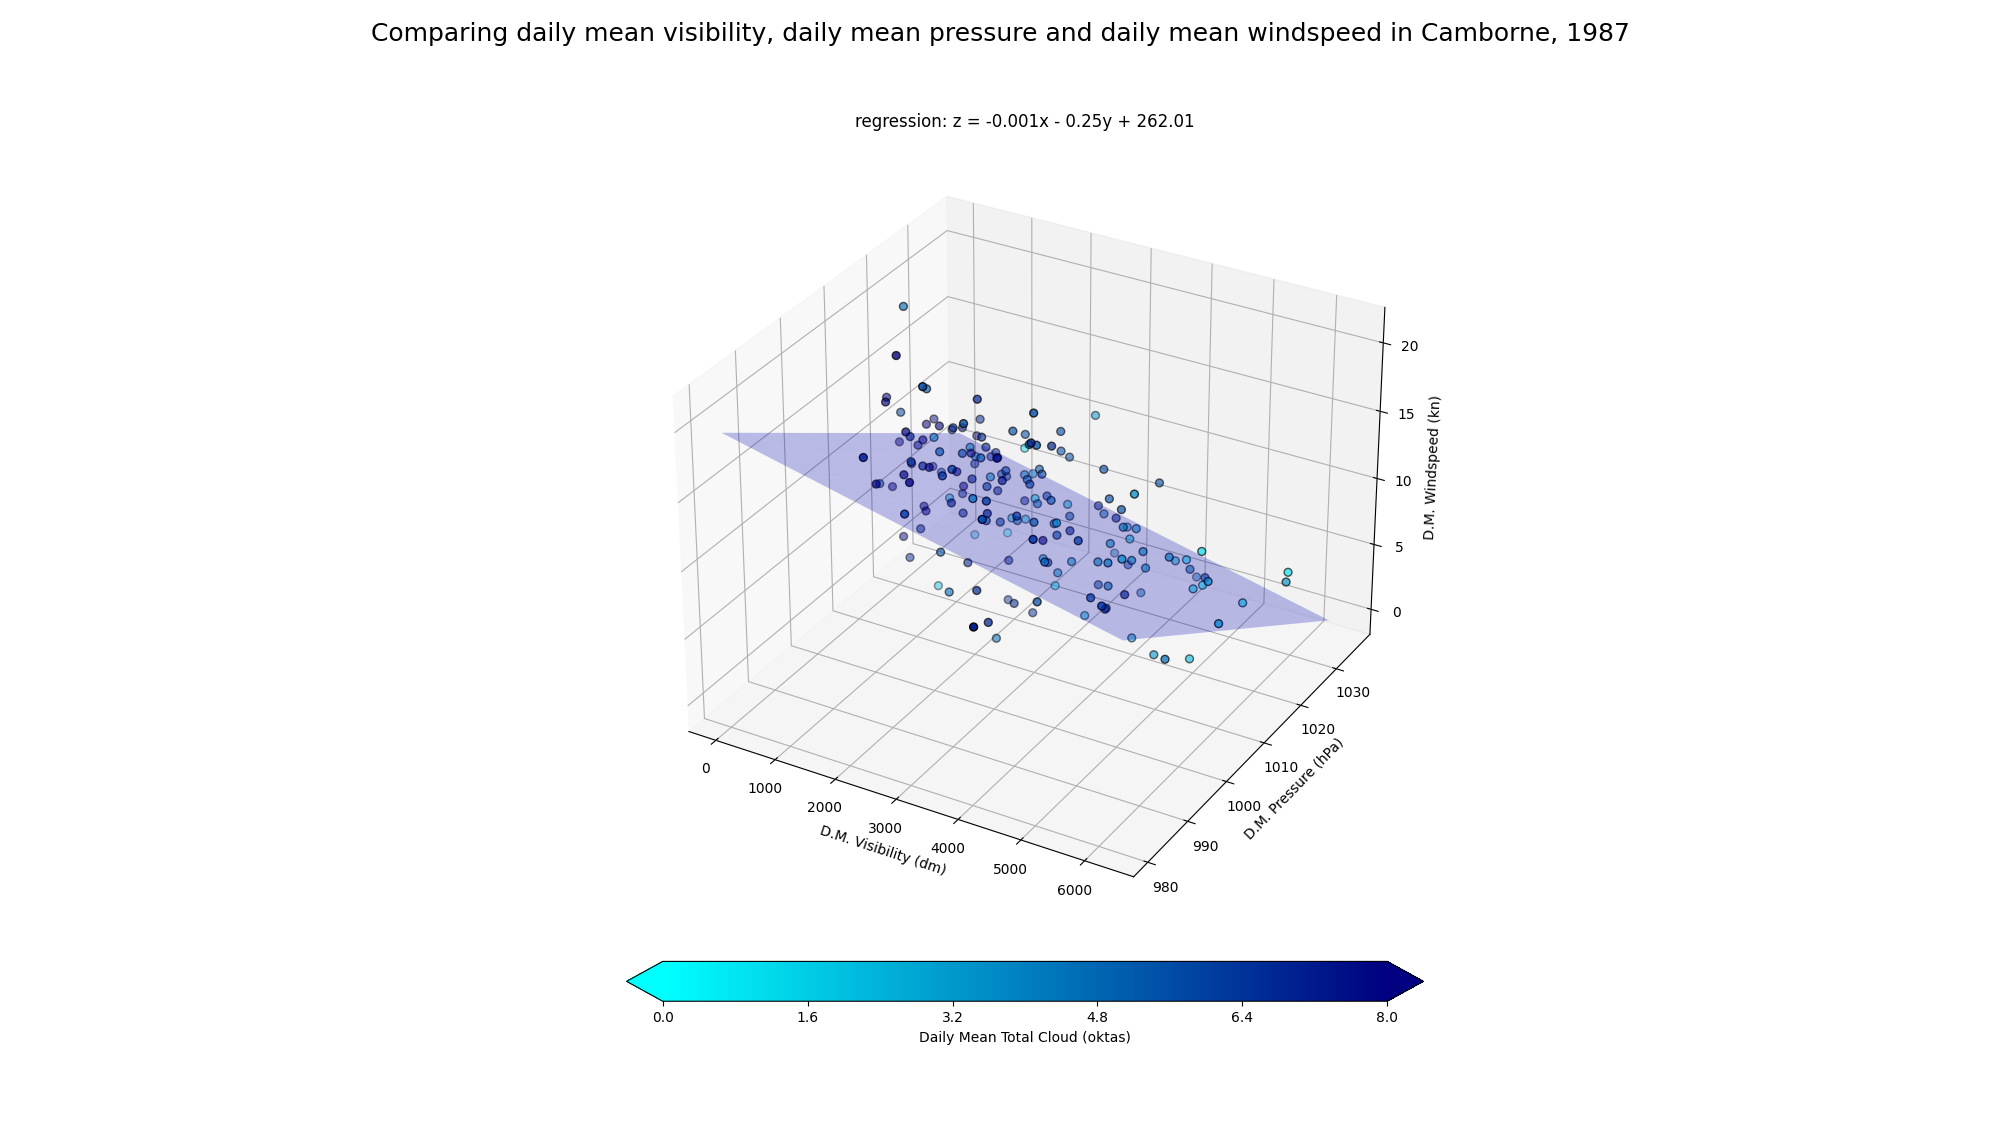
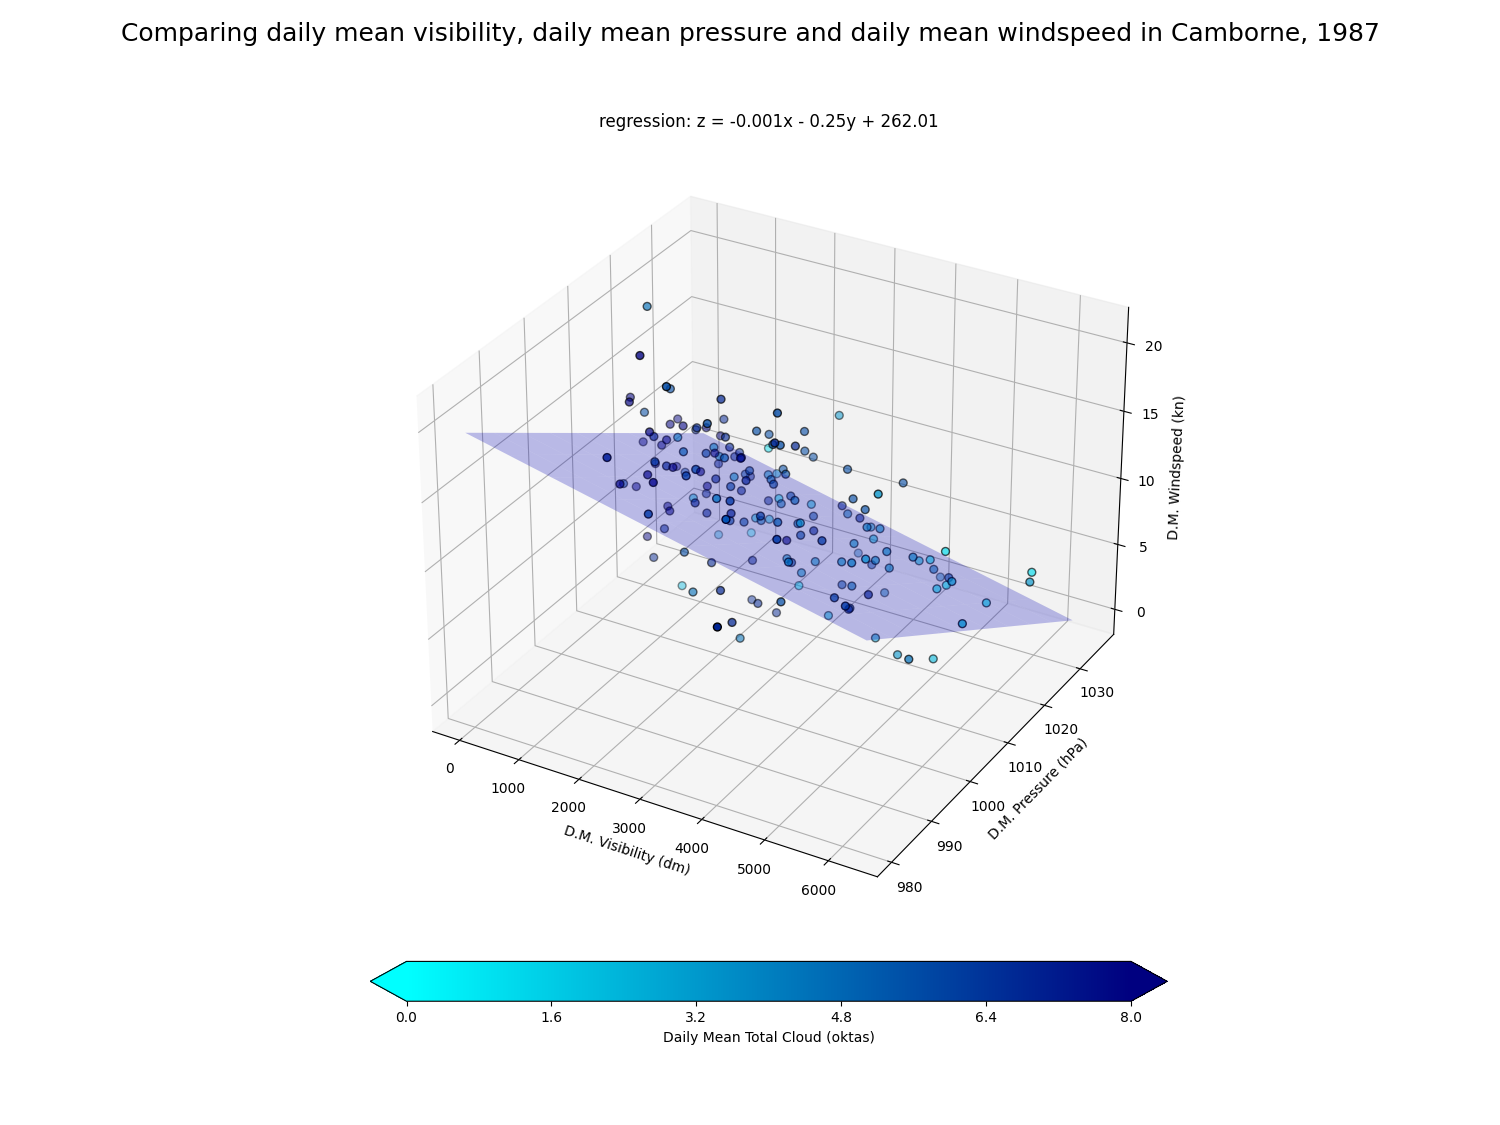
Added a version of meantempsuk where it only plots one graph so it's easier to focus on one

diff --git a/meantempsuk_onlyone.py b/meantempsuk_onlyone.py
@@ -14,12 +14,19 @@ redbluecmap = plt.get_cmap("seismic")
 # Size of one pixel in inches
 px = 1/96
 
+time = 2015
+
+# Kill units from column names so it's easier to address
+def trim_units(string):
+    bad = string.index("(") if "(" in string else len(string)+1
+    return string[0:bad-1]
+
 # Names of the 5 weather stations in a cherrypicked order so that our plots look more smooth
 stations = ["Leuchars" , "Leeming" , "Camborne" , "Hurn" , "Heathrow"]
 
-fig, (ax1,ax2,ax3) = plt.subplots(ncols=3,
+fig, ax = plt.subplots(ncols=1,
                                   nrows=1 , 
-                                  figsize=(1920*px, 1080*px), 
+                                  figsize=(1440*px, 1080*px), 
                                   subplot_kw={"projection" : "3d"})
 
 # This function gets the data and modifies it into monthly data, also makes some qol changes to the data
@@ -131,18 +138,16 @@ def plotit(time,ax, is_normal):
     ax.set_yticklabels(["placeholder", "May","June","July","Aug.","Sept.","Oct."])
     ax.set_xticklabels(["placeholder"] +  stations)
 
-    # ax2 is in the middle so I thought that's the best place to put the colourbar
-    if ax == ax2:
-        # Since the data was colour-normalised I need to set the sunshine ticks manually or it'll just go from 0-1 
-        # Round to stop stupid floating point errors
-        required_ticklabels = np.round( np.linspace(totalmonthlysunshine.min(), totalmonthlysunshine.max() , 6),
-                                       decimals=2)
-        bar = plt.colorbar(mappable=the_bars, 
-                           extend="both", 
-                           label = "Mean daily total sunshine (hrs)", 
-                           orientation="horizontal",
-                           fraction=0.046, pad=0.04) # Magic numbers, make the colourbar fit proportionally - got them from stackoverflow
-        bar.set_ticklabels(required_ticklabels)
+    # Since the data was colour-normalised I need to set the sunshine ticks manually or it'll just go from 0-1 
+    # Round to stop stupid floating point errors
+    required_ticklabels = np.round( np.linspace(totalmonthlysunshine.min(), totalmonthlysunshine.max() , 6),
+                                    decimals=2)
+    bar = plt.colorbar(mappable=the_bars, 
+                        extend="both", 
+                        label = "Mean daily total sunshine (hrs)", 
+                        orientation="horizontal",
+                        fraction=0.046, pad=0.04) # Magic numbers, make the colourbar fit proportionally - got them from stackoverflow
+    bar.set_ticklabels(required_ticklabels)
 
 
     ax.set_xlabel("Location")
@@ -168,16 +173,13 @@ def z_tick_formatter(x, pos):
         return f'{x:.1f}'
 
 z_formatter = FuncFormatter(z_tick_formatter)
-ax3.zaxis.set_major_formatter(z_formatter)
+ax.zaxis.set_major_formatter(z_formatter)
 
-# The third one is the temperature change graph
-plotit(1987,ax1,is_normal = True)
-plotit(2015,ax2,is_normal =True)
-plotit(2015,ax3, is_normal =False)
+plotit(time,ax,is_normal =True)
 
-plt.suptitle("Comparing mean temperatures across the UK in 1987 with 2015", fontsize=18)
+plt.suptitle(f"Comparing mean temperatures across the UK in {time}", fontsize=18)
 
-plt.savefig("weatherdiagram.png")
+plt.savefig("weatherdiagram_ONLY.png")
 
 plt.show()
 

diff --git a/windycorrelationsuk.py b/windycorrelationsuk.py
@@ -17,7 +17,7 @@ px =1/96
 
 fig, ax= plt.subplots(ncols=1,
                       nrows=1, 
-                      figsize=(1920*px, 1080*px),
+                      figsize=(1440*px, 1080*px),
                       subplot_kw={"projection":"3d"})
 
 # Function to plot this. I made it a function so it's easy to plot multiple graphs
